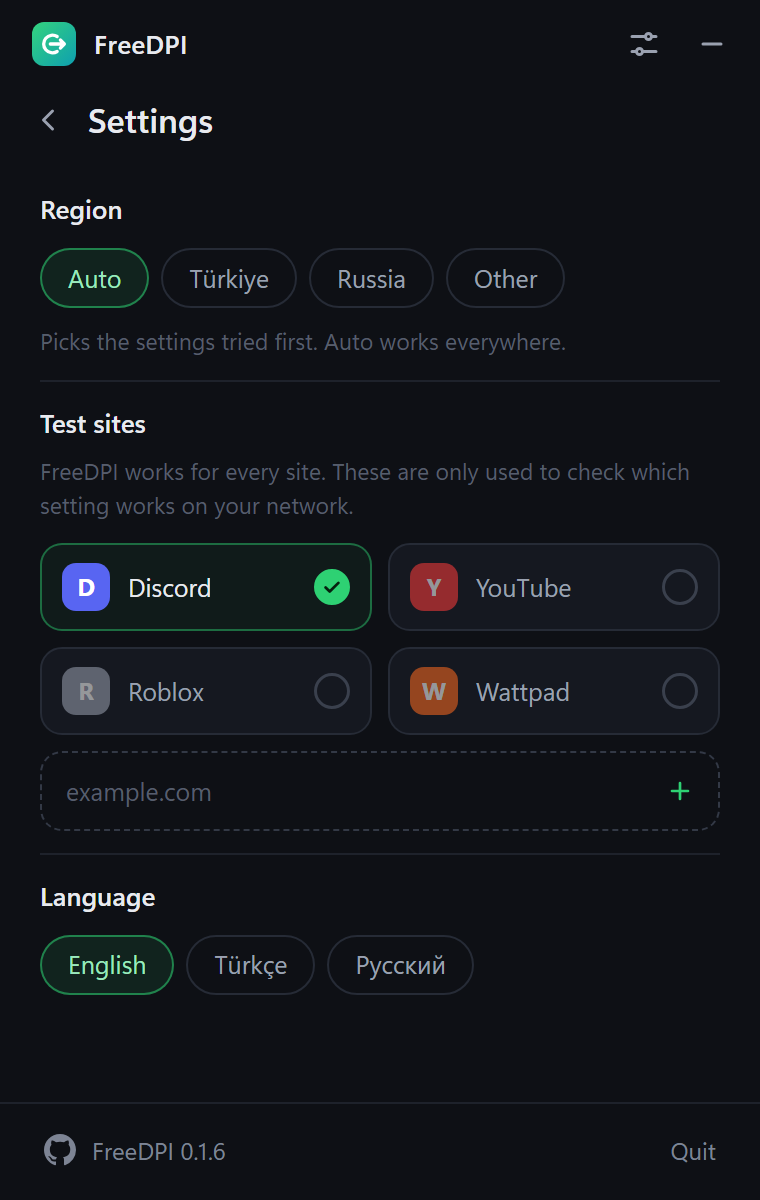
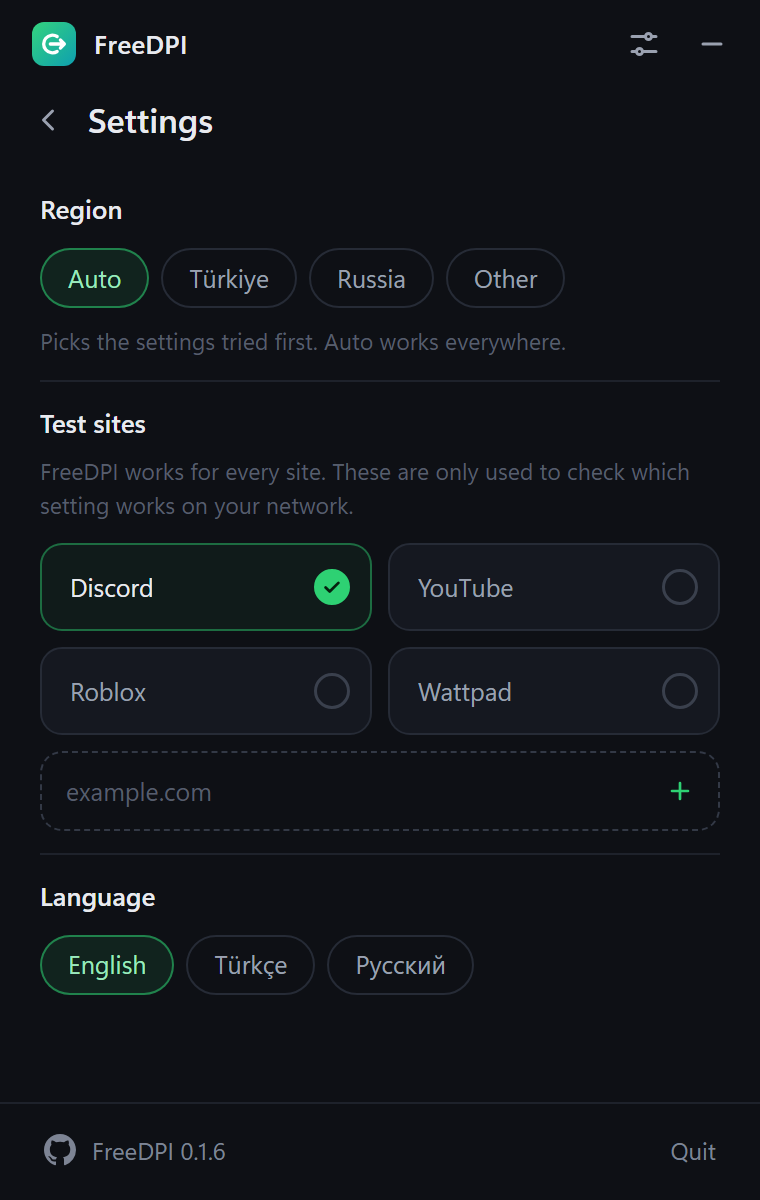
v0.1.7: remove site badges

diff --git a/src/main.ts b/src/main.ts
@@ -4,13 +4,6 @@ import type { Backend, Language, Preferences, Region, Settings, Snapshot, Status
 
 const REGIONS: Region[] = ["auto", "turkey", "russia", "other"];
 const CHECK_ICON = '<svg viewBox="0 0 24 24" aria-hidden="true"><path d="M5 12.5l4.5 4.5L19 7.5" /></svg>';
-const SITE_COLORS: Record<string, string> = {
-  discord: "#5865f2",
-  youtube: "#ff3b3b",
-  roblox: "#9aa1b0",
-  wattpad: "#ff6a1f",
-};
-const CUSTOM_COLOR = "#4c8dff";
 const REMOVE_ICON = '<svg viewBox="0 0 24 24" aria-hidden="true"><path d="M7 7l10 10M17 7L7 17" /></svg>';
 const DOMAIN = /^(?!-)[a-z0-9-]{1,63}(?<!-)(\.(?!-)[a-z0-9-]{1,63}(?<!-))+$/;
 
@@ -121,23 +114,19 @@ function chips<T extends string>(
   );
 }
 
-function tile(name: string, color: string, active: boolean, trailing: string): HTMLButtonElement {
+function tile(name: string, active: boolean, trailing: string): HTMLButtonElement {
   const button = document.createElement("button");
   button.type = "button";
   button.className = "tile";
   button.classList.toggle("active", active);
   button.setAttribute("aria-pressed", String(active));
-  const badge = document.createElement("span");
-  badge.className = "badge";
-  badge.style.setProperty("--badge", color);
-  badge.textContent = name.charAt(0).toUpperCase();
   const label = document.createElement("span");
   label.className = "tile-name";
   label.textContent = name;
   const mark = document.createElement("span");
   mark.className = "mark-icon";
   mark.innerHTML = trailing;
-  button.append(badge, label, mark);
+  button.append(label, mark);
   return button;
 }
 
@@ -145,7 +134,7 @@ function renderSites() {
   const s = text();
   const presets = snapshot.targets.map((target) => {
     const active = settings.targets.includes(target.id);
-    const button = tile(target.name, SITE_COLORS[target.id] ?? CUSTOM_COLOR, active, CHECK_ICON);
+    const button = tile(target.name, active, CHECK_ICON);
     button.addEventListener("click", () => {
       const targets = active ? settings.targets.filter((id) => id !== target.id) : [...settings.targets, target.id];
       void save({ targets });
@@ -154,7 +143,7 @@ function renderSites() {
   });
 
   const custom = settings.custom.map((domain) => {
-    const button = tile(domain, CUSTOM_COLOR, true, REMOVE_ICON);
+    const button = tile(domain, true, REMOVE_ICON);
     button.classList.add("custom");
     button.title = `${s.remove} ${domain}`;
     button.addEventListener("click", () => void save({ custom: settings.custom.filter((d) => d !== domain) }));

diff --git a/src/styles.css b/src/styles.css
@@ -495,7 +495,7 @@ body.ready .app {
   gap: 9px;
   min-width: 0;
   height: 44px;
-  padding: 0 10px;
+  padding: 0 10px 0 14px;
   border: 1px solid var(--line-2);
   border-radius: 11px;
   background: var(--surface);
@@ -512,25 +512,6 @@ body.ready .app {
   border-color: rgba(46, 209, 115, 0.45);
   background: rgba(46, 209, 115, 0.06);
   color: var(--text);
-}
-
-.badge {
-  display: grid;
-  flex: none;
-  place-items: center;
-  width: 24px;
-  height: 24px;
-  border-radius: 7px;
-  background: var(--badge);
-  color: #fff;
-  font-size: 12px;
-  font-weight: 700;
-  opacity: 0.55;
-  transition: opacity 0.15s ease;
-}
-
-.tile.active .badge {
-  opacity: 1;
 }
 
 .tile-name {
